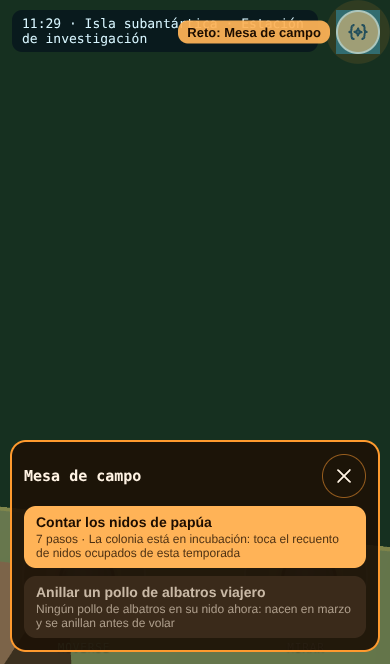
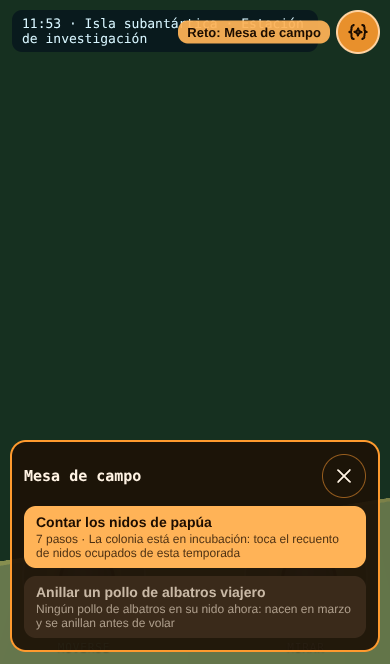
Lente del reto a ±28°, casos PX con las comprobaciones nuevas, capturas de la mesa de campo, la cocina de la Starship, su elección de reto y el alcance de Áreas
Claude-Session: https://claude.ai/code/session_013f2k3BKu3GvWho9ZkdeNDk

diff --git a/src/adapters/three/interior/reto-focus.ts b/src/adapters/three/interior/reto-focus.ts
@@ -15,7 +15,7 @@ import type { StepFrame, StepShow } from "./step-show";
 export interface LensFov {
   /** The scene's own angle, back when the sheet closes (default: the one it had when the lens came on). */
   readonly base?: number;
-  /** Half the vertical angle of the strip above the sheet in portrait (degrees, default 25: her whole at a thing). */
+  /** Half the vertical angle of the strip above the sheet in portrait (degrees, default 28: her whole at a thing). */
   readonly half?: number;
 }
 
@@ -41,7 +41,7 @@ export function sheetLens(camera: THREE.PerspectiveCamera, on: boolean, fov: Len
     // The full frustum is F tall with its middle at LENS_LINE of the screen; its half angle makes ±LENS_LINE·h span ±half.
     const F = 2 * (1 - LENS_LINE) * h;
     camera.aspect = w / F;
-    camera.fov = (2 * Math.atan((Math.tan((fov.half ?? 25) * rad) * (F / 2)) / (LENS_LINE * h))) / rad;
+    camera.fov = (2 * Math.atan((Math.tan((fov.half ?? 28) * rad) * (F / 2)) / (LENS_LINE * h))) / rad;
     camera.setViewOffset(w, F, 0, (1 - 2 * LENS_LINE) * h, w, h);
   } else if (on) {
     const W = 1.44 * w;

diff --git a/docs/qa/casos.md b/docs/qa/casos.md
@@ -499,14 +499,14 @@ fila del recorrido en [registro.md](registro.md).
 | PX-41 | `mandos` | En un iPhone 13: acoplado, de la raíz de los mandos brota solo «Desacoplar» (no hay «Centrar la vista»); el puesto del comandante ofrece «Manual» y «Automático»; «Automático» abre la ventana de navegación, sin lista en el puesto: abiertos solo la estación y Bennu, los lejanos bloqueados con el porqué («Bloqueado: …» en su ficha, sin «Programar»); Bennu abre el reto; resuelto, el LM se desacopla y vuela solo. Cerca del puerto, «Manual»: los mandos a toques del LM (trasladar, girar, motor de descenso) caben con botones de 44 px y esconden el menú árbol; con ellos salen el FDAI con sus agujas, la cruz de velocidades y las cintas ALT y ALT RATE; un cabeceo fija 1 °/s; «Acoplar» está en los mandos y el asistente lo lleva; acoplado, el interruptor del menú desacopla. En la cubierta de vuelo, Juventas está bajo la piel del casco (también tras moverse la Starship 4 km); el mando de la sonda ofrece lo mismo y su ventana abre solo asteroides cercanos, con las estructuras bloqueadas; la puerta del dispensador se abre a ×1 con su aviso, la sonda sale y se suelta a 3 cm/s; posada se termina su misión, sale la siguiente y, vacíos, la consola y el mando lo dicen. Capturas `docs/screenshots/mandos-*-movil.png` | iPhone 13, CPU ×1 |
 | PX-43 | `camara-acuario` | En un iPhone 13: en cada área (el LM acoplado y posado en Bennu, las cubiertas 3 y la esclusa de la Starship, su cubierta de vuelo, Kibo y la esclusa Quest) en 1ª y en 3ª persona, empujar el joystick de cámara gira la cámara; también en la bahía, fuera de la estación y en Bennu. En el LM, la Starship y la estación solo está «Mirar», que gira la cámara, con el zoom en la cruceta del mando de la Switch, y arrastrar la pantalla no gira nada; en la Starship el AQH a tamaño real con la escala de interiores, fuera de la pared, con sus medakas nadando dentro de las cámaras (auditado en vivo) y con «−» se ve entero; el catálogo es un portátil en el bastidor de los animales; adoptar un pez cebra y ver la llegada contar sola con el catálogo abierto, en la ficha y en la lista; en Kibo, el AQH con sus medakas y el portátil del catálogo a su lado | — | Capturas `camara-acuario-*-movil.png` |
 | PX-44 | `inicio` | En un iPhone 13, con toques. Antes de la partida sale la pantalla de inicio, sin menú árbol ni ×: arriba el mapa 3D (≥ 300×150) con los seis santuarios en el eje profundidad = peligro (el espacio arriba, luego el aéreo; el núcleo abajo del todo), debajo la lista sin pisarse en 390×664; +, − y Cenital de 44 px. Seis tarjetas con descripción y botón de 44 px; activos el 6 (elegido al empezar) y el 3, cuya descripción dice «En construcción: los retos de los puestos de entrenamiento»; 1, 2, 4 y 5 «⊘ Próximamente». Arrastrar el dedo gira el mapa, pellizcar lo amplía, «−» lo aleja; tocar el núcleo en el mapa no lo elige, tocar el 3 sí (su tarjeta se marca, con «Jugar» encendido); tocar la tarjeta del 1 no la elige. «Jugar» en el 6 empieza la partida (primer fotograma), el inicio desaparece y vuelve el menú árbol. Tras recargar (la partida se guardó al ocultarse la página), el 6 dice «Continuar» y entra en la partida. Arriba también el engranaje de las partidas guardadas, de 44 px. Sin botones solapados. Capturas `docs/screenshots/inicio-*-movil.png` | iPhone 13, CPU ×1 |
-| PX-45 | `s3-recorrido` | En un iPhone 13, con toques. «Jugar» en el 3: Doménica en el helipuerto de la isla de entrenamiento, andando, con «Moverse» y «Mirar»; el inicio y la partida del espacio no están. El joystick «Moverse» la hace andar (> 1 m), «Mirar» gira la cámara, la Vista cambia a 3ª persona. Tareas lista los puestos con «Ir»; «Ir» al puesto 2 (el centro médico) la lleva andando (barra con «Parar», sin joystick de moverse) sin saltos más rápidos que andar. Con «Isla: Todas», «Ir» al puesto 6 (vuelo parabólico, en el glaciar) la lleva a la máquina de navegación y un aviso dice que hay que volar. «Abrir navegación»: siete islas, la suya «Aquí» sin vuelo, las otras con aparato y tiempo; «Volar» a la lanzadera: anda al helipuerto, despega, sube a > 40 m, aterriza en la lanzadera y anda (sin saltos mayores que el vuelo). Áreas › «Plataforma de lanzamiento» › «Ir»: anda al ascensor, la cabina sube con ella (se ve), llega a ≥ 181,9 m en la plataforma; el Falcon 9 está a > 1 km; la cámara (con su joystick) mira el Electron y la plataforma del mar. Sin botones solapados ni errores. Capturas `docs/screenshots/s3-*-movil.png` | iPhone 13, CPU ×1 |
-| PX-46 | `s3-iniciacion` | En un iPhone 13, con toques ([santuario3-puestos.md](../design/santuario3-puestos.md)). Partida nueva a las 9:00 (la hora arriba): Karen, Linduarda, Andrea, Lizmibet y Adaguchi dan los retos 1, 2, 3, 4 y 7 y ya están en su puesto. Con «Ir» por teletransporte (Tareas › ajustes), en el puesto 1 la tarjeta (Panel) dice «Karen, de turno»; en «Paso a paso» el primer bloque bien se ve al momento (la carpeta sobre la mesa). Cada reto de los puestos 1, 2, 4, 3 y 7 se completa con toques, cada paso se ve en el sitio con sus objetos (carpeta, acreditación, sello; manguito, electrodos, lista; máscara; balsa y arnés; casco y plomo) y con la hoja abierta solo se ven la hoja y la escena; superado, vuelve a andar. Pasadas las 10:00 sigue a la mañana siguiente, a las 9:12 (de su puesto salen un cuarto de hora antes de comer). El puesto 3 está en la piscina de supervivencia (METS, balsa, izado), no en la NBL; los largos se nadan de un extremo a otro de la piscina. A las 11:20 (comida) no hay nadie de turno en el puesto 2: la tarjeta dice «Sin turno a las 11:…: el siguiente empieza a las 12:00, con …» y «Empezar el reto» queda apagado. Con «Isla: Todas» va a la navegación; el engranaje ofrece «Por reto» y «Manual»; «Por reto»: el programa del vuelo en la hoja (pasos del S-92), el vuelo se ve a > 40 m con la barra (destino, distancia y tiempo) y aterriza en la lanzadera. «Manual» a la isla de entrenamiento: el pad tiene cíclico, colectivo y pedales; el colectivo la sube a > 40 m, con pedales y cíclico llega al helipuerto, se posa despacio y «Dejar los mandos» la baja allí. Sin botones solapados ni errores. Capturas `docs/screenshots/s3i-*-movil.png` | iPhone 13, CPU ×1 |
-| PX-47 | `s3-iniciacion-2` | En un iPhone 13, con toques ([santuario3-puestos.md](../design/santuario3-puestos.md)). Partida nueva a las 9:00: Fausto, Ivelyna, David, Adonis, Amykhuz y Gohageneis dan los retos 5, 6, 8, 9, 11 y 12; la gente del glaciar empieza en sus puestos del glaciar. Con «Ir» por teletransporte e «Isla: Todas»: la centrífuga gira con ella en la góndola y sube a 4–5 g; el puesto 6 está en el glaciar y el Il-76MDK despega, sube a 6000 m, tira a 2 g, flota en ingravidez y aterriza con ella dentro. A las 10:45 Ivelyna ya sale hacia el campamento para comer a su hora; a las 11:18 el puesto 6 espera («el siguiente empieza a las 12:00, con Malena», botón apagado). Después espera a las 11:57 a que llegue andando quien da cada puesto a mediodía (Amykhuz, Nesvitor, David, Adonis; en la isla de entrenamiento no van al cruce a comer: ida y vuelta no cabe antes de su turno de las 12): meteoritos (moto, GPS, etiqueta, contador, cámara, libro, pinzas, bolsa, cinta, bandera) y frío (tienda Scott, muro, zanja, hornillo y olla, radio y antenas), cada paso con sus objetos; el simulador de Dragon en su sala, «Practicar el acople» acopla dentro de los límites del IDSS; en la sala del LM (Áreas y unos pasos), «Practicar el alunizaje (LM)» se posa; la robótica mueve el Canadarm2 en las tres pantallas. Con la hoja abierta solo se ven la hoja y la escena; sin botones solapados ni errores. Capturas `docs/screenshots/s3i2-*-movil.png` | iPhone 13, CPU ×1 |
+| PX-45 | `s3-recorrido` | En un iPhone 13, con toques. «Jugar» en el 3: Doménica en el helipuerto de la isla de entrenamiento, andando, con «Moverse» y «Mirar»; el inicio y la partida del espacio no están. El joystick «Moverse» la hace andar (> 1 m), «Mirar» gira la cámara, la Vista cambia a 3ª persona. Tareas lista los puestos con «Ir»; «Ir» al puesto 2 (el centro médico) la lleva andando (barra con «Parar», sin joystick de moverse) sin saltos más rápidos que andar. Con «Isla: Todas», «Ir» al puesto 6 (vuelo parabólico, en el glaciar) la lleva a la máquina de navegación y un aviso dice que hay que volar. «Abrir navegación»: siete islas, la suya «Aquí» sin vuelo, las otras con aparato y tiempo; «Volar» a la lanzadera: anda al helipuerto, despega, sube a > 40 m, aterriza en la lanzadera y anda (sin saltos mayores que el vuelo). Áreas › «Plataforma de lanzamiento» › «Ir»: anda al ascensor, la cabina sube con ella (se ve), llega a ≥ 181,9 m en la plataforma; el Falcon 9 está a > 1 km; la cámara (con su joystick) mira el Electron y la plataforma del mar. Sin botones solapados ni errores. Capturas `docs/screenshots/s3-*-movil.png` Áreas: el engranaje lista la isla, el edificio-árbol y sus niveles; con el nivel 1 solo sus pisos (alcance compartido, [areas.md](../design/areas.md)). | iPhone 13, CPU ×1 |
+| PX-46 | `s3-iniciacion` | En un iPhone 13, con toques ([santuario3-puestos.md](../design/santuario3-puestos.md)). Partida nueva a las 9:00 (la hora arriba): Karen, Linduarda, Andrea, Lizmibet y Adaguchi dan los retos 1, 2, 3, 4 y 7 y ya están en su puesto. Con «Ir» por teletransporte (Tareas › ajustes), en el puesto 1 la tarjeta (Panel) dice «Karen, de turno»; en «Paso a paso» el primer bloque bien se ve al momento (la carpeta sobre la mesa). Cada reto de los puestos 1, 2, 4, 3 y 7 se completa con toques, cada paso se ve en el sitio con sus objetos (carpeta, acreditación, sello; manguito, electrodos, lista; máscara; balsa y arnés; casco y plomo) y con la hoja abierta solo se ven la hoja y la escena; superado, vuelve a andar. Pasadas las 10:00 sigue a la mañana siguiente, a las 9:12 (de su puesto salen un cuarto de hora antes de comer). El puesto 3 está en la piscina de supervivencia (METS, balsa, izado), no en la NBL; los largos se nadan de un extremo a otro de la piscina. A las 11:20 (comida) no hay nadie de turno en el puesto 2: la tarjeta dice «Sin turno a las 11:…: el siguiente empieza a las 12:00, con …» y «Empezar el reto» queda apagado. Con «Isla: Todas» va a la navegación; el engranaje ofrece «Por reto» y «Manual»; «Por reto»: el programa del vuelo en la hoja (pasos del S-92), el vuelo se ve a > 40 m con la barra (destino, distancia y tiempo) y aterriza en la lanzadera. «Manual» a la isla de entrenamiento: el pad tiene cíclico, colectivo y pedales; el colectivo la sube a > 40 m, con pedales y cíclico llega al helipuerto, se posa despacio y «Dejar los mandos» la baja allí. Sin botones solapados ni errores. Capturas `docs/screenshots/s3i-*-movil.png` Cada reto de puesto la enfoca encima de la hoja (`reto-focus.ts`); el botón naranja «Reto: <puesto>» abre el reto (uno) o la elección de reto. | iPhone 13, CPU ×1 |
+| PX-47 | `s3-iniciacion-2` | En un iPhone 13, con toques ([santuario3-puestos.md](../design/santuario3-puestos.md)). Partida nueva a las 9:00: Fausto, Ivelyna, David, Adonis, Amykhuz y Gohageneis dan los retos 5, 6, 8, 9, 11 y 12; la gente del glaciar empieza en sus puestos del glaciar. Con «Ir» por teletransporte e «Isla: Todas»: la centrífuga gira con ella en la góndola y sube a 4–5 g; el puesto 6 está en el glaciar y el Il-76MDK despega, sube a 6000 m, tira a 2 g, flota en ingravidez y aterriza con ella dentro. A las 10:45 Ivelyna ya sale hacia el campamento para comer a su hora; a las 11:18 el puesto 6 espera («el siguiente empieza a las 12:00, con Malena», botón apagado). Después espera a las 11:57 a que llegue andando quien da cada puesto a mediodía (Amykhuz, Nesvitor, David, Adonis; en la isla de entrenamiento no van al cruce a comer: ida y vuelta no cabe antes de su turno de las 12): meteoritos (moto, GPS, etiqueta, contador, cámara, libro, pinzas, bolsa, cinta, bandera) y frío (tienda Scott, muro, zanja, hornillo y olla, radio y antenas), cada paso con sus objetos; el simulador de Dragon en su sala, «Practicar el acople» acopla dentro de los límites del IDSS; en la sala del LM (Áreas y unos pasos), «Practicar el alunizaje (LM)» se posa; la robótica mueve el Canadarm2 en las tres pantallas. Con la hoja abierta solo se ven la hoja y la escena; sin botones solapados ni errores. Capturas `docs/screenshots/s3i2-*-movil.png` Cada reto de puesto la enfoca encima de la hoja (`reto-focus.ts`); en el simulador de Dragon (su puesto y «Practicar el acople») el botón naranja abre la elección de reto; Áreas va al LMS por «Todo». | iPhone 13, CPU ×1 |
 | PX-48 | `iniciacion-completa` | En un iPhone 13, con toques ([santuario3-lanzamiento.md](../design/santuario3-lanzamiento.md)). Partida nueva a las 9:00: Luciana da el puesto 10 e Irosene el 13; el traje, antes de los demás puestos, dice cuáles faltan. Con los puestos 1–9, 11 y 12 superados por el gancho de pruebas (los juegan PX-46 y PX-47): en el control de misión el Electron carga, despega y sube en la pantalla grande; en la sala de trajes, el casco, el umbilical y la lista de la comprobación de fugas. Vuelo «Por reto» a la plataforma; «Ir» de la tarea «Lanzamiento» la lleva andando a la torre; «Empezar el lanzamiento»: el brazo y la sala blanca a más de 60 m sobre la cubierta, el brazo que se retira, el despegue, la 1.ª etapa que se separa, la Dragon sola en órbita y la pantalla de la Dragon en la cita. Acoplada: la ranura es del nivel 6 (816 días de crucero, los 13 puestos) y la página sigue sola en la Starship con el chip del crucero a Bennu (≤ 10 min) y sin asteroides; al llegar, se ven y el chip se va. Sin errores en la página. Capturas `docs/screenshots/px48-*-movil.png` | iPhone 13, CPU ×1 |
 | PX-49 | `s3-detalle` | En un iPhone 13, con toques ([santuario3-detalle.md](../design/santuario3-detalle.md)). «Ir» por teletransporte en los ajustes de Tareas; Áreas tiene la sala de control de la NBL, la cámara hiperbárica, Orion y la piscina de supervivencia. En cada sala (NBL: piscina, zona de vestirse y buzos; su sala de control; la cámara hiperbárica; el SVMF y Orion; el control de misión; el gimnasio; el centro médico y su sala de espera; la cámara hipobárica; supervivencia; helipuerto; exterior) «Ir» la lleva, anda unos pasos con «Moverse» y mira con «Mirar»; su equipo real está; ningún botón se solapa; ≤ 600 llamadas de dibujo; capturas `docs/screenshots/s3d-*-movil.png`, que se ven llenas |
 | PX-50 | `partidas` | En un iPhone 13, con toques ([partidas.md](../design/partidas.md)). Sin partidas, el engranaje del inicio (44 px) cambia los santuarios por las partidas y pasa a icono de lista: «Todavía no hay ninguna partida guardada» y «Jugar sin partida guardada» de 44 px (ranura 1); el icono de lista vuelve. «Jugar» en el 6 (ranura 1); de pie, Áreas → «Ir» a la escotilla de acople, «Panel» → «Entrar en la nodriza»: está en la cubierta 3 de la Starship. Recargar: el 6 dice «Continuar»; «Continuar» la deja en la misma cubierta, junto al mismo sitio, con el módulo acoplado donde estaba, sus necesidades, la despensa de la Starship, las cartas y los créditos como estaban, y el día sigue. Con una ranura dañada a mano, el engranaje lista «Partida 1 · Santuario Espacio» (Continuar, día, Starship, cubierta, fecha) con «Jugar» y «Borrar» de 44 px y la dañada con ⊘ y solo «Borrar»; «Jugar sin partida guardada» usaría la ranura 2. «Borrar» pregunta en la fila (Borrar/Cancelar de 44 px), sin diálogo del navegador; «Cancelar» la deja; borradas las dos, no queda ninguna, el 6 vuelve a «Jugar» y no quedan en el almacenamiento. «Jugar sin partida guardada» empieza una partida nueva en el puesto del módulo. Viajes en marcha (2026-11-19): la Starship sale con el módulo hacia otro asteroide; en vuelo, el interruptor de acople sale «⊘ Desacoplar: …en viaje…» y tocarlo no lo suelta; recargar a medio viaje y «Continuar»: sigue volando al mismo asteroide, entre el origen y el destino, con el avance y lo que falta de antes, el módulo acoplado y «Trayecto» con el viaje; y avanza. Del lanzamiento del 3 (traspaso en la ranura 2): el crucero a Bennu en marcha sin asteroides a la vista y el módulo bloqueado («crucero»); recargar y «Continuar»: sigue de camino a Bennu con lo que faltaba (no aparece allí), «Trayecto» dice Starship → Bennu, Crucero, y fuera del puesto de pilotaje la ficha del crucero no sale. Sin botones solapados. Capturas `docs/screenshots/partidas-*-movil.png` | iPhone 13, CPU ×1 |
 | PX-27 | `catalogo` | Partida nueva: ni gatos, ni perros, ni gallinas, ni peces ni caracoles; el estado dice «sin peces (adóptalos en el catálogo)» y no hay tareas de cuidar animales; la lista de tareas no tiene botón del catálogo. En su terminal, junto al acuario: más de 50 fichas, cabe a lo ancho; filtro Caracoles con Biomphalaria y nerita. La nerita (sin vuelo, limpiacristales, no cría en agua dulce, Aporta y Precauciones por separado, con fuente) sale «Pendiente: nunca ha vivido en ingravidez» y sin botón; la Biomphalaria (ha volado, esquistosoma, solo líneas de laboratorio) cabe en el hábitat acuático, tipo Aquatic Habitat de JAXA, con su fuente. «Adoptar» Biomphalaria y medaka (filtro por hábitat: medaka y pez cebra, no la tilapia ni el pez ciego): «En camino: llega en 24,8 h de a bordo (24:48 reales)», que cuenta sola. Mascotas: el ratón «Disponible»; gatos y perros «Pendiente». Pasa el viaje: 8 medakas y 4 caracoles en el tanque y en 3D. Dar de comer, amistad con las medakas y con los caracoles: «medakas amigas · caracoles amigos». Junto al terminal, «Catálogo de especies»: los caracoles «A bordo · 4». Un día de a bordo: hambre 2 veces y cada comida medio día; aviso «tiene hambre». Capturas `docs/screenshots/catalogo-*-movil.png`. | iPhone 13, CPU ×4 |
-| PX-28 | `starship` | Partida nueva con el interruptor «solo real»: la nodriza es una Starship sin anillo, animales ni huerto, con metano y oxígeno y ~10 km/s de Δv. Del habitáculo, «Entrar en la nave de viaje» lleva a la cubierta 3 (letrero con la cubierta y 0 g). Tareas → «Ir» a una comida de la ISS: la cocina de la cubierta 1 con su reto; «Ir» a la cinta: la T2 de la cubierta 3. En el terminal del catálogo de la cubierta 2 se adoptan medakas para el hábitat acuático; llegan y se ven en el hábitat de la cubierta 3, que ofrece cuidarlas. Junto a la escotilla del techo de la cubierta 1, «Subir a la cubierta de vuelo» abre la cubierta de vuelo de la Starship; el puesto de pilotaje ofrece «Manual» y «Automático (retos)», y sus «Pantallas de sistemas» (propulsión, energía y vida en pestañas) dicen Raptor de vacío y metano y oxígeno; la mesa de navegación programa un viaje que acelera, va por inercia y frena. Con cada reto abierto solo se ve la hoja; en ninguna pantalla aparece el anillo, el huerto, animales ni xenón; sin botones solapados. Capturas `docs/screenshots/starship-*-movil.png`. | iPhone 13, CPU ×1 |
+| PX-28 | `starship` | Partida nueva con el interruptor «solo real»: la nodriza es una Starship sin anillo, animales ni huerto, con metano y oxígeno y ~10 km/s de Δv. Del habitáculo, «Entrar en la nave de viaje» lleva a la cubierta 3 (letrero con la cubierta y 0 g). Tareas → «Ir» a una comida de la ISS: la cocina de la cubierta 1 con su reto; «Ir» a la cinta: la T2 de la cubierta 3. En el terminal del catálogo de la cubierta 2 se adoptan medakas para el hábitat acuático; llegan y se ven en el hábitat de la cubierta 3, que ofrece cuidarlas. Junto a la escotilla del techo de la cubierta 1, «Subir a la cubierta de vuelo» abre la cubierta de vuelo de la Starship; el puesto de pilotaje ofrece «Manual» y «Automático (retos)», y sus «Pantallas de sistemas» (propulsión, energía y vida en pestañas) dicen Raptor de vacío y metano y oxígeno; la mesa de navegación programa un viaje que acelera, va por inercia y frena. Con cada reto abierto solo se ve la hoja; en ninguna pantalla aparece el anillo, el huerto, animales ni xenón; sin botones solapados. Capturas `docs/screenshots/starship-*-movil.png`. En el hábitat acuático, «Reto: …» abre la elección de reto (varios retos); Áreas enseña su cubierta en «Automático» y el engranaje las cuatro cubiertas; con la 2, sus camarotes. | iPhone 13, CPU ×1 |
 | PX-29 | `estacion-iss` | La ISS con toques: recorrido por sus escotillas, cada una con «Entrar en <módulo>» (Harmony y sus camarotes, que son cuartos, Destiny y la AMF, Unity, Tranquility y los bastidores de agua, Columbus y la impresora, Kibo, su esclusa a la JEM-EF (escotilla sin menú) y la consola del JEMRMS con el Hangar, Quest y los trajes), una captura por módulo; en Kibo, el hábitat acuático (AQH) y el portátil que abre el catálogo de especies. Dentro de la Bishop, su placa ofrece «Sujetar Juventas»; desde el puesto robótico de la Cupola, «Soltar Juventas»: Juventas queda fuera y la vista de la Cupola enseña el brazo sacando la Bishop y la carga alejándose; la Bishop vuelve. En la Cupola el brazo atraca el módulo en el CBM de Unity y lo devuelve. Cada trabajo del brazo (soltar con la Bishop, atracar, devolver) es un reto del RWS que se juega con el brazo moviéndose fuera (PX-39 audita cada paso). La cocina de Unity hace un plato. Sin botones solapados. Capturas `docs/screenshots/iss-*-movil.png`. | iPhone 13, CPU ×1 |
 | PX-36 | `trayectos` | Partida nueva, sentada en el LM acoplado a la Starship, lejos de la estación. «Viaje» está elegido; «Ir» a una tarea de Planos: el plan pasa por el LM y las cubiertas hasta el puesto de pilotaje de la cubierta de vuelo y para allí (sin vuelo: reglas §3.5), con dos escotillas y sin aviso de teletransporte. La escotilla del techo del LM se abre antes de subir; en la cubierta 1 abre la de la cubierta de vuelo; sentada allí, la Starship no despega y un aviso dice «primero hay que viajar a la estación» con «Manual» y «Automático (retos)». El puesto ofrece los dos modos, sin selector de destino; «Automático (retos)» abre la ventana de navegación, la estación y su cadena de retos resuelta: la Starship vuela sola su programa; «Ver trayecto» enseña la Starship en la escena con su ruta, la cámara a pocas esloras; su joystick de cámara la gira. Al llegar, el ordenador hace el atraque lento, como la Demo-1. Mientras atraca baja a cocinar a la cubierta 1: fuera del puente el viaje no sale y sigue solo (reglas §3.8). «Ir» otra vez: abre el túnel de proa y llega a la pestaña de Planos con la Starship atracada. En la bahía, pestaña Nodriza: la Starship a escala real; «+» acerca la cámara. Sin botones solapados. Capturas `docs/screenshots/trayectos-*-movil.png`. | iPhone 13, CPU ×1 |
 

diff --git a/docs/design/ux-acciones.md b/docs/design/ux-acciones.md
@@ -140,7 +140,9 @@ cubiertas de la Starship, la estación, la cabina del LM y el puente) usan el mi
   opción (`data-title`, `data-detail` y, si está apagado, `data-why`), y si la tarjeta tiene más botones la elección
   añade «Ver la máquina», que la muestra. Las máquinas sin reto siguen con su tarjeta.
 - **Foco del reto, uno para todos** (`src/adapters/three/interior/reto-focus.ts`): `sheetLens` (la franja libre encima de
-  la hoja en vertical, a su izquierda en horizontal) en los santuarios 1 y 3, las cubiertas de la Starship, la estación,
+  la hoja en vertical, a su izquierda en horizontal; en vertical la línea de la cámara queda en el 15 % de arriba y el 30 %
+  de arriba ve ±28°, así caben su cabeza, sus pies y la cosa aunque la hoja sea alta: antes, con los 72° de la escena, la
+  mesa de campo del bioma le cortaba la cabeza) en los santuarios 1 y 3, las cubiertas de la Starship, la estación,
   el anillo, el puente y la cabina del LM; `retoFrame`/`focusReto` (ella delante de la cosa, la cámara tras su hombro
   derecho, más alta y lejos en las máquinas altas; `close` para la consola de 0 g del puente); `retoVisual` (cada paso
   resuelto se representa, sin repetir los bloques ya hechos «paso a paso»); `framePair` (los puestos del santuario 3,
